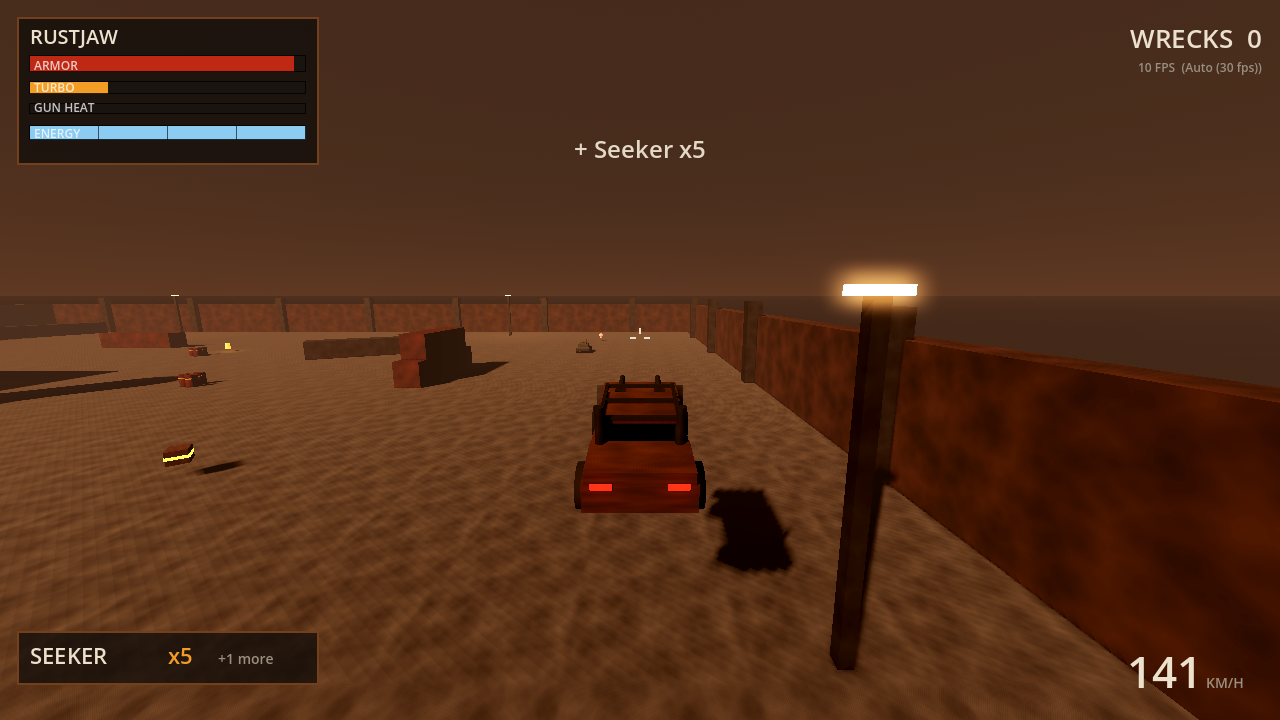
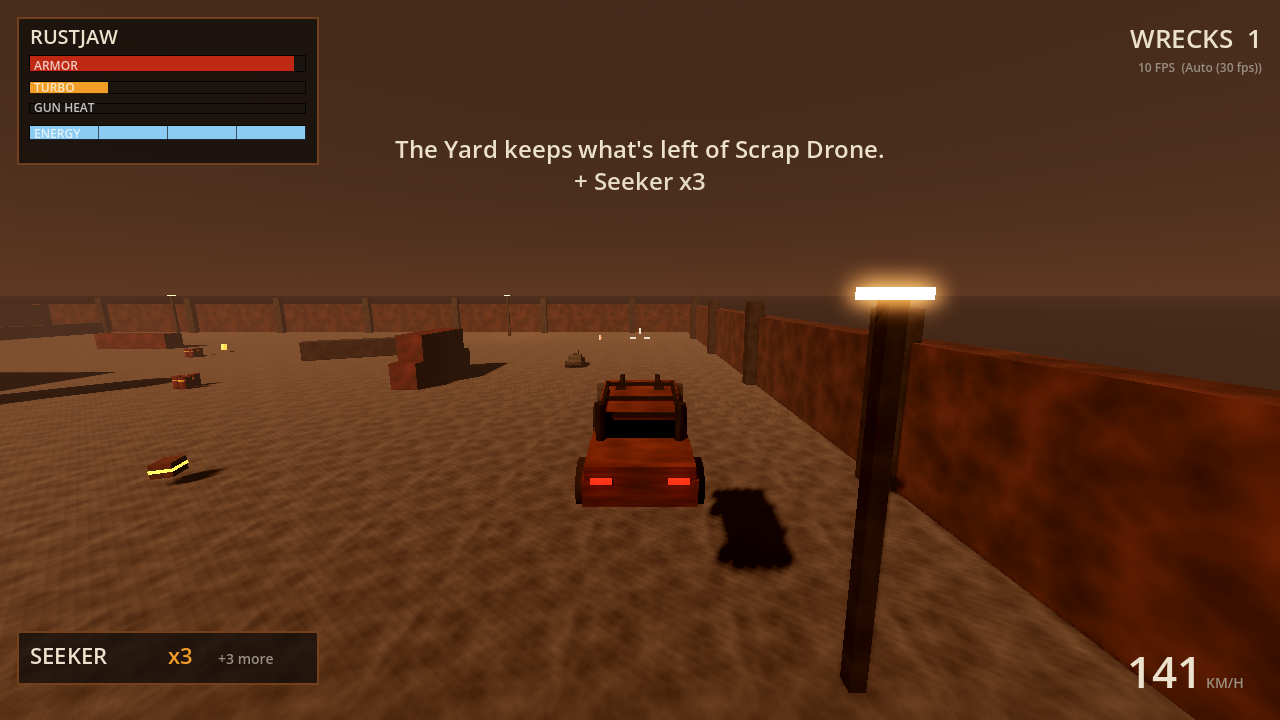
Tailgunner fires the selected special backwards
Per Mathias: with a special weapon selected, Tailgunner (Left, Right,
Down) fires that weapon out the back at the car behind, using one of its
shots and no energy. With no special selected, or once the ammo runs
out, it fires a Cold Snap freeze blast out the back for 35 energy.

Rear shots aim at the nearest car in a 30 degree cone behind and carry
the car's velocity so they leave cleanly. Shared cone targeting lives in
game/weapons/targeting.gd. Tests: 392 passing.

Claude-Session: https://claude.ai/code/session_017PsDfpeH4NjKiybTYTVcRW

diff --git a/README.md b/README.md
@@ -92,7 +92,7 @@ the screen while you enter them, and the pause menu lists every move.
 | Spring Jack | Up, Up, Left | I, I, J | 25 | Hydraulic jump. Hop walls, dodge mines. Ground only. |
 | Rivet Storm | Hold RT + Up, Down, Left, Right, Right, Left, Down, Up | Hold Ctrl + I, K, J, L, L, J, K, I | 50 | For 4 seconds the guns fire twice as fast, hit 1.5 times harder and never overheat. |
 | Fire Jug | Right, Left, Up | L, J, I | 35 | Lobs a jug of fuel ahead that leaves a burning pool. Cars in it catch fire. |
-| Tailgunner | Left, Right, Down | J, L, K | 25 | Heavy round out the back, aimed at whoever is behind you. |
+| Tailgunner | Left, Right, Down | J, L, K | 35, or a special shot | Fires your selected special weapon out the back at whoever is behind you, using one of its shots and no energy. With no special selected (or none left) it fires a freeze blast out the back for 35 energy. |
 | Blackout | Right, Down, Left, Up | L, K, J, I | 40 | Black smog: for 4 seconds nothing can lock on to you, Seekers lose you and drones can't find you. Firing ends it. |
 | Bulwark | Up, Up, Right | I, I, L | 50 | Force field: no damage for 3 seconds. Puts out fire and thaws ice. |
 

diff --git a/docs/handling_report.md b/docs/handling_report.md
@@ -25,9 +25,9 @@ Targets are our own design windows from `data/handling_targets.json`.
 | parked_shoved_m | 9.46 |  |
 | spring_jack_height_m | 3.95 |  |
 | fire_jug_range_m | 19.85 |  |
-| rivet_storm_damage_per_s | 39.47 |  |
-| drone_1_travel_25s_m | 354.94 |  |
-| drone_2_travel_25s_m | 387.02 |  |
-| drone_3_travel_25s_m | 398.03 |  |
-| drones_first_hit_on_player_s | 5.70 |  |
+| rivet_storm_damage_per_s | 34.78 |  |
+| drone_1_travel_25s_m | 357.78 |  |
+| drone_2_travel_25s_m | 383.84 |  |
+| drone_3_travel_25s_m | 425.92 |  |
+| drones_first_hit_on_player_s | 5.22 |  |
 | time_to_wreck_drone_s | 1.77 |  |
